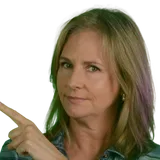
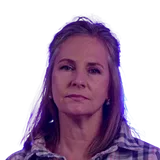
v1.12

diff --git a/programa.js b/programa.js
@@ -2,7 +2,7 @@
 // La versión se publica con herramientas/publicar.js, que la copia a los ?v= de index.html.
 (function () {
   "use strict";
-  const VERSION = "1.11";
+  const VERSION = "1.12";
   const D = window.MEMC;
   const $ = (s, el = document) => el.querySelector(s);
   const $$ = (s, el = document) => [...el.querySelectorAll(s)];
@@ -47,7 +47,7 @@
   // 02 · La obra
   if (D.sinopsis && D.sinopsis.parrafos.length) {
     const s = D.sinopsis;
-    const claves = /^(achicarse|agrandarse|chiquita|juntos|luz)/i;
+    const claves = /^(achicarse|agrandarse|chiquita|juntos|lugar)/i;
     const palabras = (t) => esc(t).split(/\s+/).map((w) => `<span class="w${claves.test(w) ? " clave" : ""}">${w}</span>`).join(" ");
     const sello = s.sello ? `
       <div class="sello" data-reveal="sello">
@@ -203,9 +203,9 @@
   function cintas(variante) {
     const a = variante === "a"
       ? ["Mamá está más chiquita", "Córdoba"]
-      : ["Comedia musical", "Brux Producciones"];
+      : ["Teatro musical", "Brux Producciones"];
     const b = variante === "a"
-      ? ["Comedia musical", "Viernes 21 h"]
+      ? ["Teatro musical", "Viernes 21 h"]
       : ["Mamá está más chiquita", "Córdoba"];
     const rollo = (arr) => {
       const uno = arr.map((t) => `<span>${esc(t)}</span><b>✦</b>`).join("");
@@ -399,7 +399,6 @@
   const raiz = document.documentElement;
   const portada = $("#portada");
   const parrafos = $$(".lectura p").map((p) => ({ el: p, w: $$(".w", p), n: -1 }));
-  const fotosActor = $$(".foto-obra img");
   const cintasEls = $$(".cinta").map((c) => ({ el: c, r: $(".rodillo", c), dir: +c.dataset.dir, x: 0, ancho: 0, visible: false }));
   let ultimoY = window.scrollY;
   let velocidad = 0;
@@ -461,13 +460,6 @@
     });
 
     if (!quieto) {
-      // Fotos del elenco: leve paralaje
-      fotosActor.forEach((im) => {
-        const r = im.parentElement.getBoundingClientRect();
-        if (r.bottom < 0 || r.top > vh) return;
-        const k = (r.top + r.height / 2 - vh / 2) / vh;
-        im.style.setProperty("--py", (k * -8).toFixed(2) + "%");
-      });
 
       // Cintas: avanzan solas, aceleran con el scroll y se inclinan con el envión
       const inclina = clamp(-velocidad * 0.25, -6, 6);

diff --git a/index.html b/index.html
@@ -4,13 +4,13 @@
 <meta charset="utf-8">
 <meta name="viewport" content="width=device-width, initial-scale=1, viewport-fit=cover">
 <title>Mamá está más chiquita · Programa</title>
-<meta name="description" content="Programa digital de Mamá está más chiquita, la comedia musical en Córdoba. Elenco, sinopsis, equipo y fotos.">
+<meta name="description" content="Programa digital de Mamá está más chiquita, la obra de teatro musical en Córdoba. Elenco, sinopsis, equipo y fotos.">
 <meta name="theme-color" content="#0d1310">
 <meta name="color-scheme" content="dark">
 <meta name="format-detection" content="telephone=no">
 <meta property="og:type" content="website">
 <meta property="og:title" content="Mamá está más chiquita · Programa">
-<meta property="og:description" content="Elenco, sinopsis, equipo y fotos de la comedia musical en Córdoba.">
+<meta property="og:description" content="Elenco, sinopsis, equipo y fotos de la obra de teatro musical en Córdoba.">
 <meta property="og:url" content="https://memc.capralabsdata.com/">
 <meta property="og:image" content="https://memc.capralabsdata.com/img/og.jpg">
 <meta property="og:image:width" content="1200">
@@ -20,8 +20,8 @@
 <link rel="apple-touch-icon" href="img/favicon.png">
 <link rel="preload" href="fuentes/barlowcondensed-800i-latin.woff2" as="font" type="font/woff2" crossorigin>
 <link rel="preload" href="fuentes/barlow-400-latin.woff2" as="font" type="font/woff2" crossorigin>
-<link rel="stylesheet" href="fuentes/fuentes.css?v=1.11">
-<link rel="stylesheet" href="estilos.css?v=1.11">
+<link rel="stylesheet" href="fuentes/fuentes.css?v=1.12">
+<link rel="stylesheet" href="estilos.css?v=1.12">
 <script>document.documentElement.classList.add("js");</script>
 </head>
 <body>
@@ -83,7 +83,7 @@
   </div>
 </dialog>
 
-<script src="contenido.js?v=1.11"></script>
-<script src="programa.js?v=1.11"></script>
+<script src="contenido.js?v=1.12"></script>
+<script src="programa.js?v=1.12"></script>
 </body>
 </html>

diff --git a/contenido.js b/contenido.js
@@ -10,7 +10,7 @@ window.MEMC = {
     titulo: "Mamá está más chiquita",
     autores: "de Ignacio Olivera & Juan Pablo Schapira",
     ciudad: "Córdoba",
-    genero: "Comedia musical",
+    genero: "Teatro musical",
     duracion: "", // ej. "90 minutos, sin intervalo"
   },
 
@@ -33,7 +33,7 @@ window.MEMC = {
     parrafos: [
       "Rita es la capitana de un barco de tres, y un día empieza a achicarse. Entonces sus hijos tienen que agrandarse de golpe: Diego y Clara salen a pelear contra miedos y dragones, preparan pociones mágicas y aprenden a sostener el timón en un mar que los desborda.",
       "Crecer es ocupar más lugar, y nadie te enseña a bajar de la fantasía al mundo de los grandes mientras todavía sos chico. Pero la aventura también tiene su belleza: aunque mamá esté cada vez más chiquita, los tres siguen navegando juntos.",
-      "Con canciones y banda en vivo, una comedia musical que se pregunta qué hacemos cuando la luz empieza a apagarse.",
+      "Con canciones y banda en vivo, una obra de teatro musical sobre una familia que descubre que el hogar no es una casa: nosotros somos nuestro lugar.",
     ],
     sello: "Premio Hugo · Mejor musical off · 2016 ·",
     // foto grande que corta la sinopsis

diff --git a/estilos.css b/estilos.css
@@ -280,8 +280,9 @@ html:not(.js) .cel .tachado { stroke-dashoffset: 0; }
 .js .lectura .w.on { opacity: 1; }
 .lectura .w.clave { color: var(--coral); }
 /* foto grande de la obra: se abre como un telón desde el centro */
-.foto-obra { position: relative; margin: 34px calc(var(--gutter) * -1) 6px; aspect-ratio: 3 / 2; overflow: hidden; }
-.foto-obra img { position: absolute; left: 0; top: -9%; width: 100%; height: 118%; object-fit: cover; translate: 0 var(--py, 0%); }
+/* la foto va entera (sin agrandar ni paralaje): es un recorte de cuerpo entero y no se le pueden cortar las cabezas */
+.foto-obra { position: relative; margin: 34px calc(var(--gutter) * -1) 6px; aspect-ratio: 1600 / 1034; overflow: hidden; }
+.foto-obra img { position: absolute; left: 0; top: 0; width: 100%; height: 100%; object-fit: contain; }
 /* el recorte va en la imagen y no en el marco: Chrome no "ve" entrar en pantalla un elemento recortado entero */
 .js .foto-obra img { clip-path: inset(0 50% 0 50%); scale: 1.15; transition: clip-path 1.4s var(--curva), scale 1.8s var(--curva); }
 .js .foto-obra.visto img { clip-path: inset(0 0 0 0); scale: 1; }
